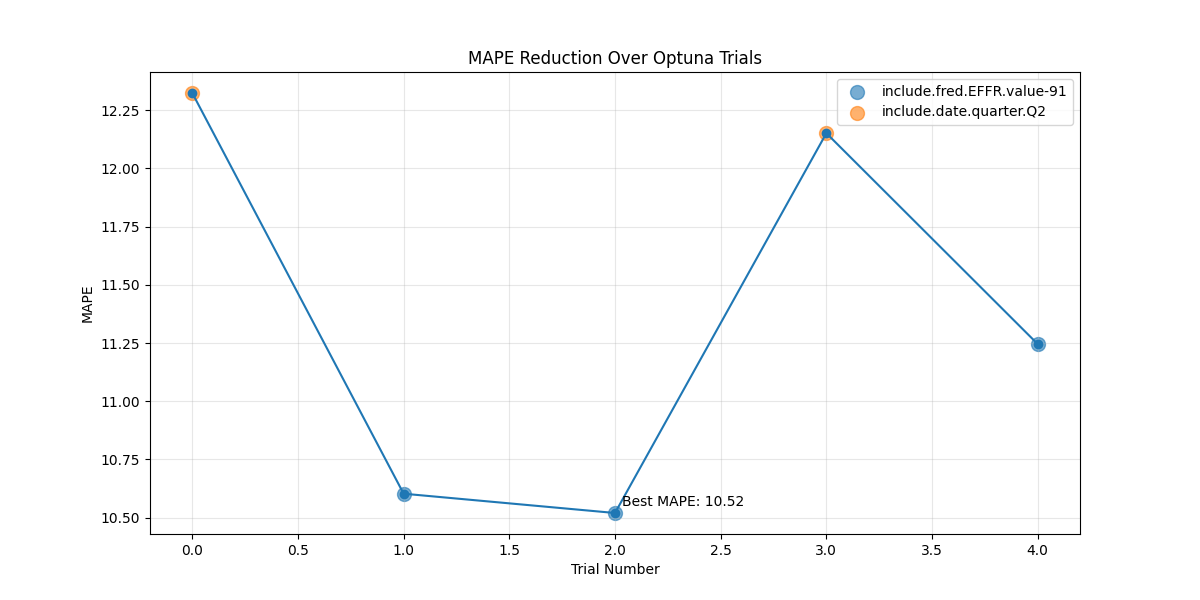
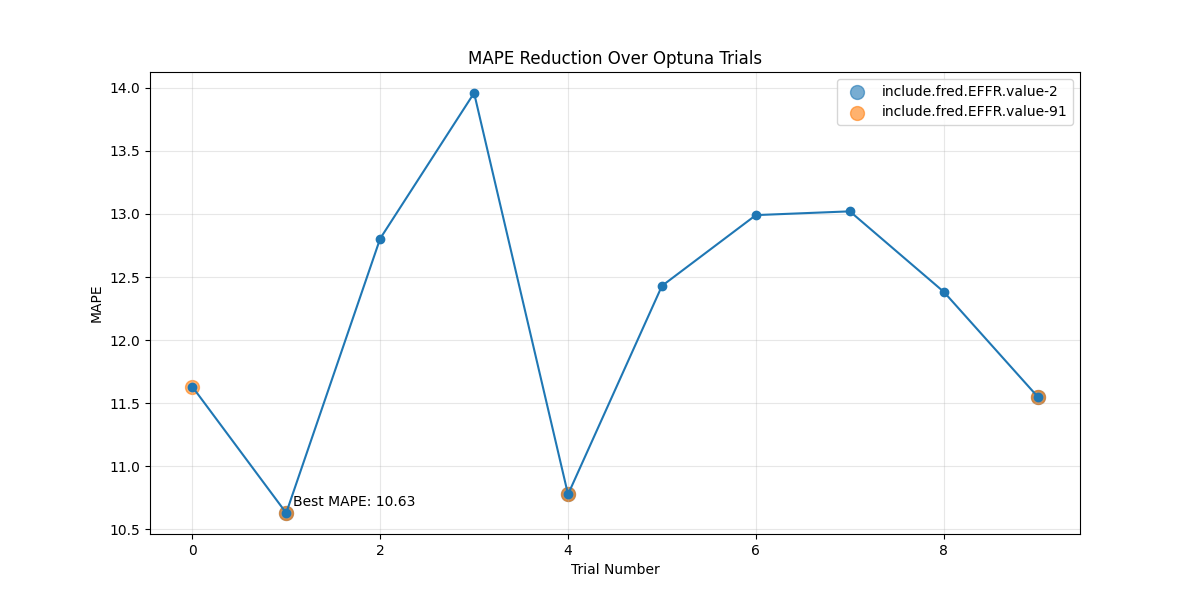
commented out debug, added in interpolation (need to fix to avoid data leakage by changing to ema), then shifting, then resampling to weekly to ensure I'm looking at exactly the values from the shift days ago before resampling.  Added TODO for changing resampling to picking last nyse_dates dow, but 

diff --git a/CNN_LSTM/evaluation.py b/CNN_LSTM/evaluation.py
@@ -65,10 +65,11 @@ def objective(trial, combined_df, forecast_features, trial_results, LOOK_BACK, F
     # Ensure that the selected features exist in the combined_df
     valid_features = [feature for feature in selected_features if feature in combined_df.columns]
     
-    # Debug print statement to verify selected and valid features
-    print(f"Selected features: {selected_features}")
-    print(f"Valid features: {valid_features}")
-    print(f"Combined_df columns: {combined_df.columns.tolist()}")
+    if(debug):
+        # Debug print statement to verify selected and valid features
+        print(f"Selected features: {selected_features}")
+        print(f"Valid features: {valid_features}")
+        print(f"Combined_df columns: {combined_df.columns.tolist()}")
 
     if not valid_features:
         raise ValueError("No valid features selected for training.")
@@ -153,15 +154,17 @@ def backtest_and_evaluate(study, combined_df, scaler, features, forecast_feature
     # Select valid features from combined_df
     selected_columns = [col for col in combined_df.columns if col in features]
     
+    if(debug):
     # Debug print statements to check selected columns and data_subset
-    print(f"Features: {features}")
-    print(f"Selected columns: {selected_columns}")
+        print(f"Features: {features}")
+        print(f"Selected columns: {selected_columns}")
     
     data_subset = combined_df[selected_columns].dropna()
     
     # Debug print statement to check data_subset
-    print(f"Data subset shape: {data_subset.shape}")
-    print(f"Data subset head:\n{data_subset.head()}")
+    if(debug):
+        print(f"Data subset shape: {data_subset.shape}")
+        print(f"Data subset head:\n{data_subset.head()}")
     
     if data_subset.empty:
         raise ValueError("No data available after dropping NaNs.")

diff --git a/main.py b/main.py
@@ -10,9 +10,16 @@ data = {ticker: yf.download(ticker, start=start_date, end=end_date) for ticker i
 # Fetch data for each indicator
 indicator_data = {}
 for indicator in indicators:
-    indicator_data[indicator] = pdr.get_data_fred(indicator, start=start_date, end=end_date)
-    indicator_data[indicator + '-2'] = indicator_data[indicator].shift(2).resample('W').last()
-    indicator_data[indicator + '-91'] = indicator_data[indicator].shift(91).resample('W').last()
+    ind_data = pdr.get_data_fred(indicator, start=start_date, end=end_date)
+    # Interpolate missing data
+    #TODO: Data leakage, use EMA of ffill
+    ind_data = ind_data.interpolate()
+    
+    # Assign the interpolated data to the dictionary
+    indicator_data[indicator] = ind_data
+    #TODO: use last business day as defined from nyse_dates
+    indicator_data[indicator + '-2'] = ind_data.shift(2).resample('W').last()
+    indicator_data[indicator + '-91'] = ind_data.shift(91).resample('W').last()
 
 # Create a new DataFrame to hold the required features
 stock_data = []

diff --git a/constants.py b/constants.py
@@ -7,6 +7,8 @@ print(f"Using device: {device}")
 end_date = datetime.now()
 start_date = end_date - timedelta(days=365*5)  # 5 years of data
 
+debug = False
+
 NUM_SIMULATIONS = 10  # or any other number you prefer
 N_TRIALS = 20
 NUM_EPOCHS = 50
